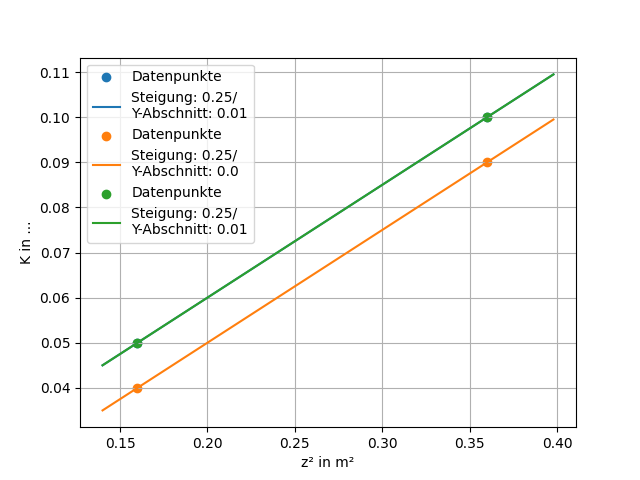
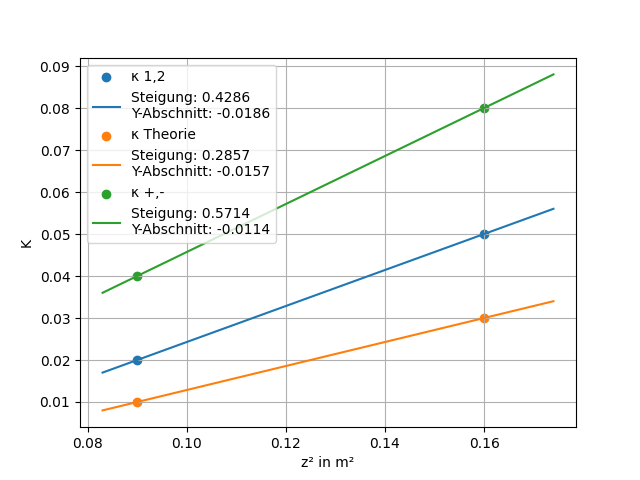
m15 updated plot file

diff --git a/m15/plot3.py b/m15/plot3.py
@@ -5,16 +5,14 @@ import math
 x_data_unit = ""
 y_data_unit = ""
 
-x_graph_unit = ""
+x_graph_unit = "m²"
 y_graph_unit = ""
-
 
 messwerte = False
 
-
 files = ["kappa1", "kappa2", "kappa3"]
 
-names = ["Kappa 1,2 ", "kappa Theorie", "Kappa +,-"]
+names = ["κ 1,2 ", "κ Theorie", "κ +,-"]
 
 file_name = ""
 for name in files:
@@ -30,7 +28,7 @@ figure = plot.figure(num=file_name)
 axis = plot.axes()
 
 axis.set_xlabel('z² in m²')
-axis.set_ylabel('K in ...')
+axis.set_ylabel('K')
 
 for name in files:
     x = []
@@ -68,7 +66,17 @@ for name in files:
         x_s_step = (x[-1] - x[0]) / 100
         x_s = np.arange(x[0] - x_s_step * 10, x[-1] + x_s_step * 20, x_s_step)
 
-        plot.plot(x_s, linear_model_fn(x_s), label=f"Steigung: {str(round(float(linear_model[0]), 4))}{y_graph_unit}/{x_graph_unit}\nY-Abschnitt: {str(round(float(linear_model[1]), 4))}{y_graph_unit}")
+        # label = ""
+        # if x_graph_unit == '' and y_graph_unit == '':
+        #     label = f"Steigung: {str(round(float(linear_model[0]), 4))}\nY-Abschnitt: {str(round(float(linear_model[1]), 4))}"
+        # elif x_graph_unit != '' and y_graph_unit != '':
+        #     label = f"Steigung: {str(round(float(linear_model[0]), 4))}{y_graph_unit}/{x_graph_unit}\nY-Abschnitt: {str(round(float(linear_model[1]), 4))}{y_graph_unit}"
+        # elif y_graph_unit == '':
+        #     label = f"Steigung: {str(round(float(linear_model[0]), 4))} 1/{x_graph_unit}\nY-Abschnitt: {str(round(float(linear_model[1]), 4))}"
+        # elif x_graph_unit == '':
+        label = f"Steigung: {str(round(float(linear_model[0]), 4))}\nY-Abschnitt: {str(round(float(linear_model[1]), 4))}"
+
+        plot.plot(x_s, linear_model_fn(x_s), label=label)
 
     if x_error or y_error:
         plot.errorbar(x, y, xerr=x_error, yerr=y_error, fmt='o', elinewidth=2)
